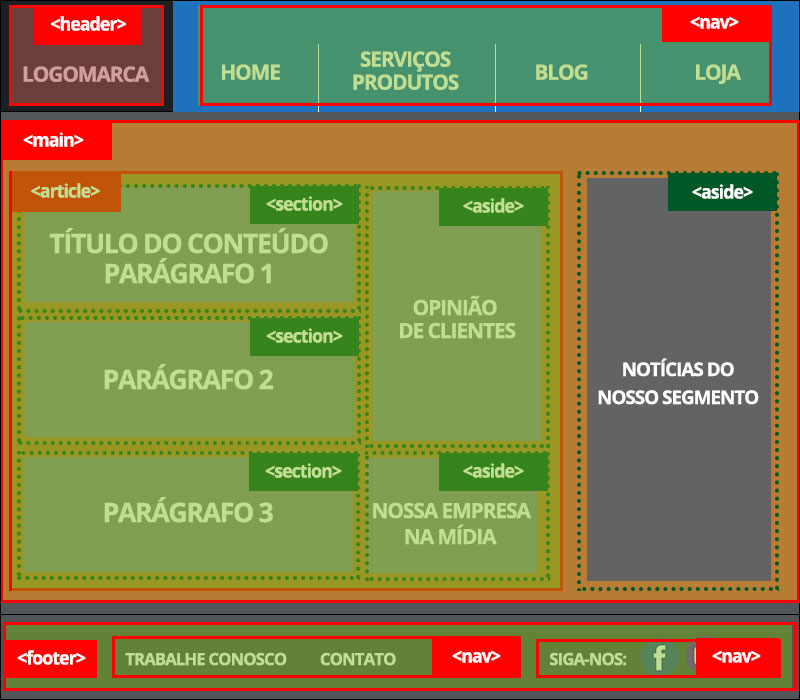
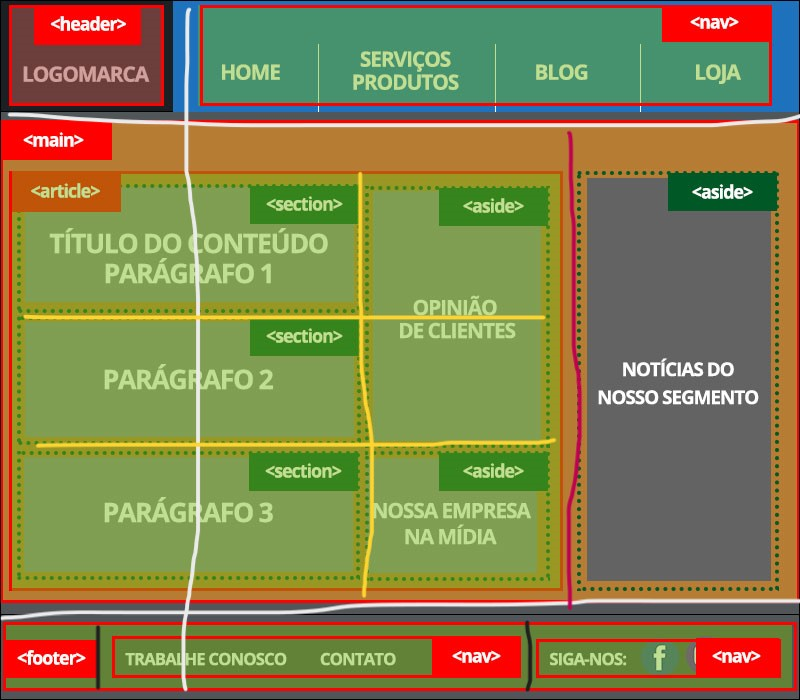
grid,Artigo

Changed region(s): [[0.0, 0.0, 1.0, 0.99], [0.0625, 0.27, 0.125, 0.3]]

diff --git a/Equipe/LandingPage/index.html b/Equipe/LandingPage/index.html
@@ -7,11 +7,11 @@
             <title>Aries.Inc</title>
         </head>
         <body>
-            <header>
+            <header class="itemLogo">
                 <img src="assets/imgs/Logomarca-Aries.png" alt="">
             </header>
-            <nav>
-                <ul class="cabecalho-menu">
+            <nav class="item navHeader">
+                <ul class="cabecalhoMenu">
                     <li>ÍNICIO</li>
                     <li>QUEM SOMOS</li>
                     <li>A EQUIPE</li>
@@ -20,39 +20,34 @@
                 </ul>
             </nav>
 
-            <main>
-                <section id="#quem">
-                    <p>Lorem ipsum dolor sit amet consectetur adipisicing elit. Vel, perspiciatis!</p>
-                </section>
-                <section id="#equipe">
-                    <p>Lorem ipsum dolor sit amet consectetur adipisicing elit. Incidunt ex labore cupiditate explicabo assumenda, minima exercitationem voluptate adipisci enim ipsa debitis omnis, id, voluptas autem eos quaerat quasi? Ducimus, ipsam.</p>
-                </section>
-                <section id="#projetos">
-                    <p>Lorem ipsum dolor sit amet consectetur adipisicing elit. In ea omnis beatae quas repellendus. Ex eveniet excepturi optio adipisci ipsum esse, libero aspernatur officia nesciunt earum, labore exercitationem, atque sit.
-                    Veritatis reprehenderit cupiditate rerum dignissimos! Aliquam neque aliquid iure delectus porro consectetur quis dolore quos, beatae, impedit ad atque quia? Sit asperiores reprehenderit totam? Accusantium tenetur eum asperiores corporis cumque.</p>
-                </section>
-                <section id="#contato">
-                    <p>Lorem ipsum dolor sit amet consectetur adipisicing elit. Eius asperiores sint ullam quo nostrum esse natus sed, et rem fugiat fuga at atque tenetur eaque laudantium dolorum placeat repudiandae ratione.
-                    Accusamus, perferendis vero tempore, voluptas soluta nihil amet autem quia explicabo, dolorum adipisci omnis nobis unde sequi. Accusantium quisquam quia, ratione incidunt a consequatur tempora excepturi et beatae illo mollitia.</p>
-                </section>
-                <aside>
-                    <p>Lorem ipsum dolor sit amet consectetur adipisicing elit. Sint dolorum quia, est tenetur dolor quod vel, repudiandae culpa quis natus voluptas voluptatum dolores necessitatibus aliquam quam ipsam accusamus doloremque perferendis!</p>
-                </aside>
-                <aside>
-                    <p>Lorem, ipsum dolor sit amet consectetur adipisicing elit. Et alias debitis accusamus modi. Soluta consequuntur nam, ea aspernatur nulla quasi. Aperiam iusto natus est in nobis minima officiis laudantium reiciendis!
-                    Id, aspernatur! Reprehenderit commodi asperiores, eos, assumenda molestiae, esse natus odio adipisci illo officiis temporibus ipsum laborum laudantium deleniti minima nostrum vel iure aperiam necessitatibus! Incidunt repudiandae ipsam veritatis quo?</p>
-                </aside>
+            <main class="gridTemplate2">
+                <article class="item mainArticle gridTemplate3">
+                    <section id="#quem" class="item articleSection1">
+                        MAIN - ARTICLE - SECTION - 1
+                    </section>
+                    <section id="#equipe" class="item articleSection2">
+                        MAIN - ARTICLE - SECTION - 2
+                    </section>
+                    <section id="#projetos" class="item articleSection3">
+                        MAIN - ARTICLE - SECTION - 3
+                    </section>
+                    <section id="#contato" class="item articleSection4">
+                        MAIN - ARTICLE - SECTION - 4
+                    </section>
+                    <aside class="item articleAside1">
+                        MAIN - ARTICLE - ASIDE - 1
+                    </aside>
+                    <aside class="item articleAside2">
+                        MAIN - ARTICLE - ASIDE - 2
+                    </aside>
+                </article>
+                <aside class="item mainAside1">
+                    MAIN - ASIDE - 1
             </main>
 
-            <aside>
-                <p>Lorem ipsum dolor sit amet, consectetur adipisicing elit. Delectus non quam exercitationem consequuntur quas cupiditate et debitis. Fugit voluptatibus tenetur voluptates necessitatibus officia, temporibus a laboriosam assumenda dolores recusandae asperiores.
-                Tenetur consectetur quam ullam perspiciatis eius quidem necessitatibus, aliquid dolorum magni molestiae velit consequuntur modi laborum nam earum sit cumque eum, aspernatur molestias laudantium repellat. Reprehenderit saepe dolorum exercitationem nisi?
-                Vero, cumque adipisci? Accusantium enim, quibusdam maxime veritatis voluptatem ex iusto ad dolorum libero neque sunt facilis ratione illum pariatur! Sit, pariatur omnis inventore distinctio veniam illum. Commodi, dignissimos autem!</p>
-            </aside>
-
-            <footer>
-                <nav>
-                    <ul class="rodape-menu">
+            <footer class="gridTemplate4">
+                <nav class="item footerNav1">
+                    <ul class="rodapeMenu">
                         <li>ÍNICIO</li>
                         <li>QUEM SOMOS</li>
                         <li>A EQUIPE</li>
@@ -60,7 +55,7 @@
                         <li>CONTATO</li>
                     </ul>
                 </nav>
-                <nav>
+                <nav class="item footerNav2">
                     <a href="facebok">FACEBOOK</a>
                     <a href="instagram">INSTAGRAM</a>
                 </nav>

diff --git a/Equipe/LandingPage/assets/css/style.css b/Equipe/LandingPage/assets/css/style.css
@@ -5,4 +5,13 @@ body {
     width: 100vw;
     height: 100vh;
     position: absolute;
+    display: grid;
+}
+
+
+.gridTemplate2 {
+    grid-template: 
+    "article article article aside" 100px
+    "article article article aside" 100px
+    1fr / 1fr;
 }

diff --git a/style.css b/style.css
@@ -6,7 +6,7 @@
     grid-template: 
         "logo nav nav" 50px
         "sidenav content advert" 150px
-        "sidenav footer footer" 100px
+        "sidenav footer ." 100px
         / 100px 2fr 1fr;
 }
 
